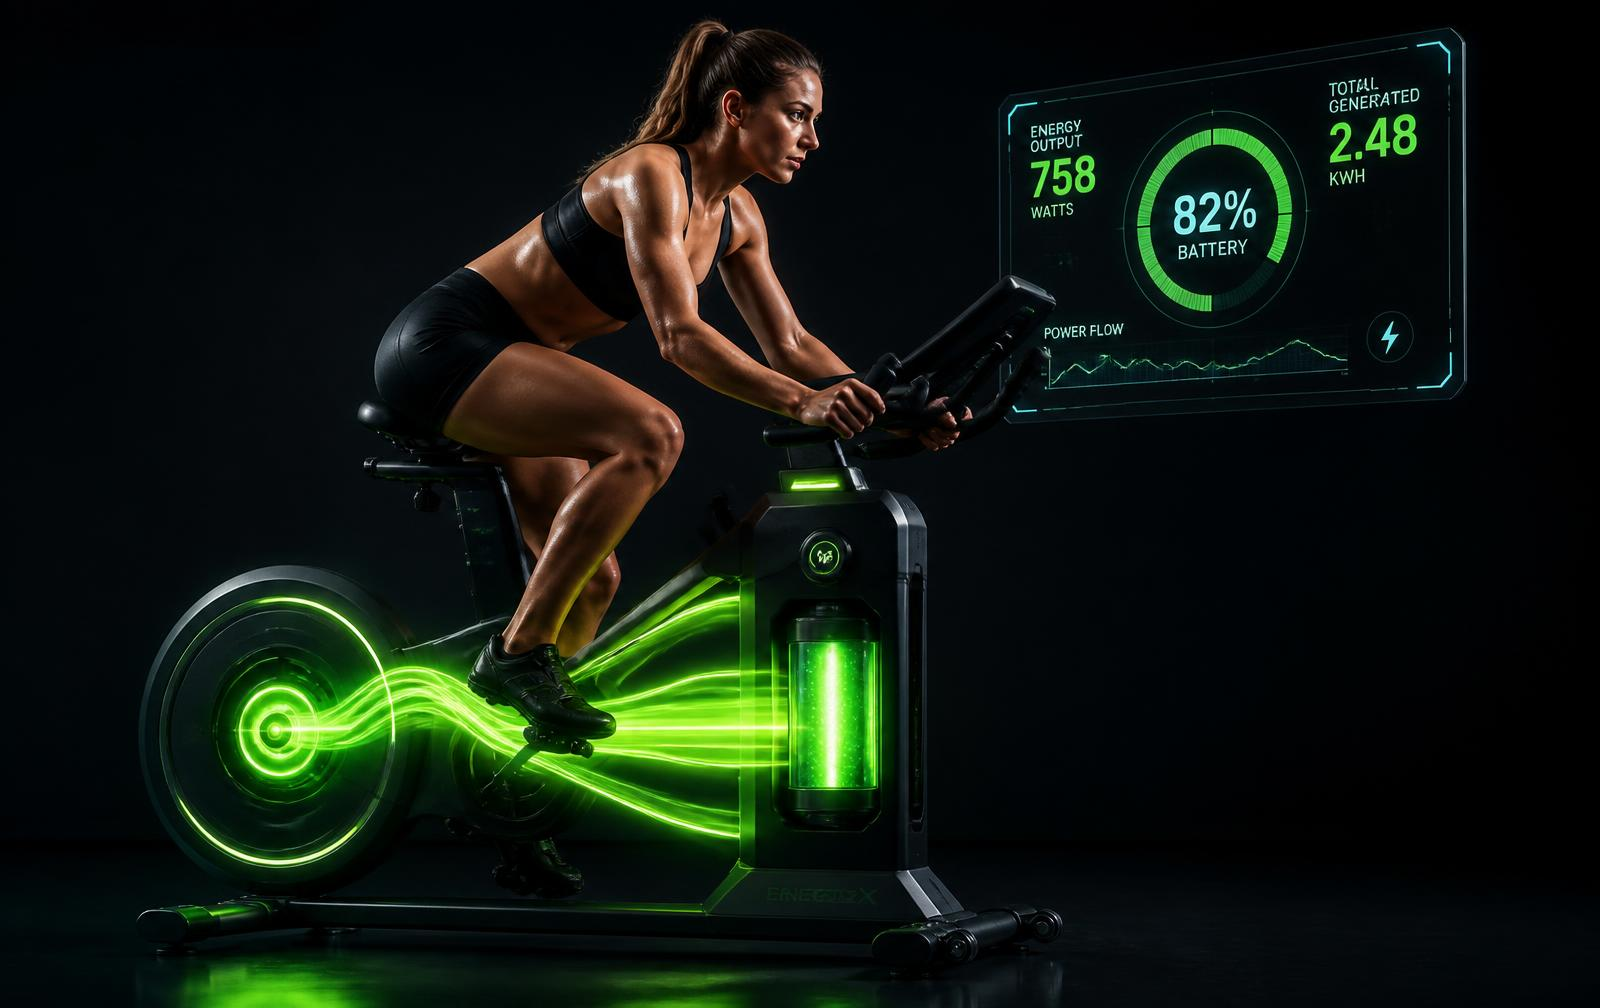
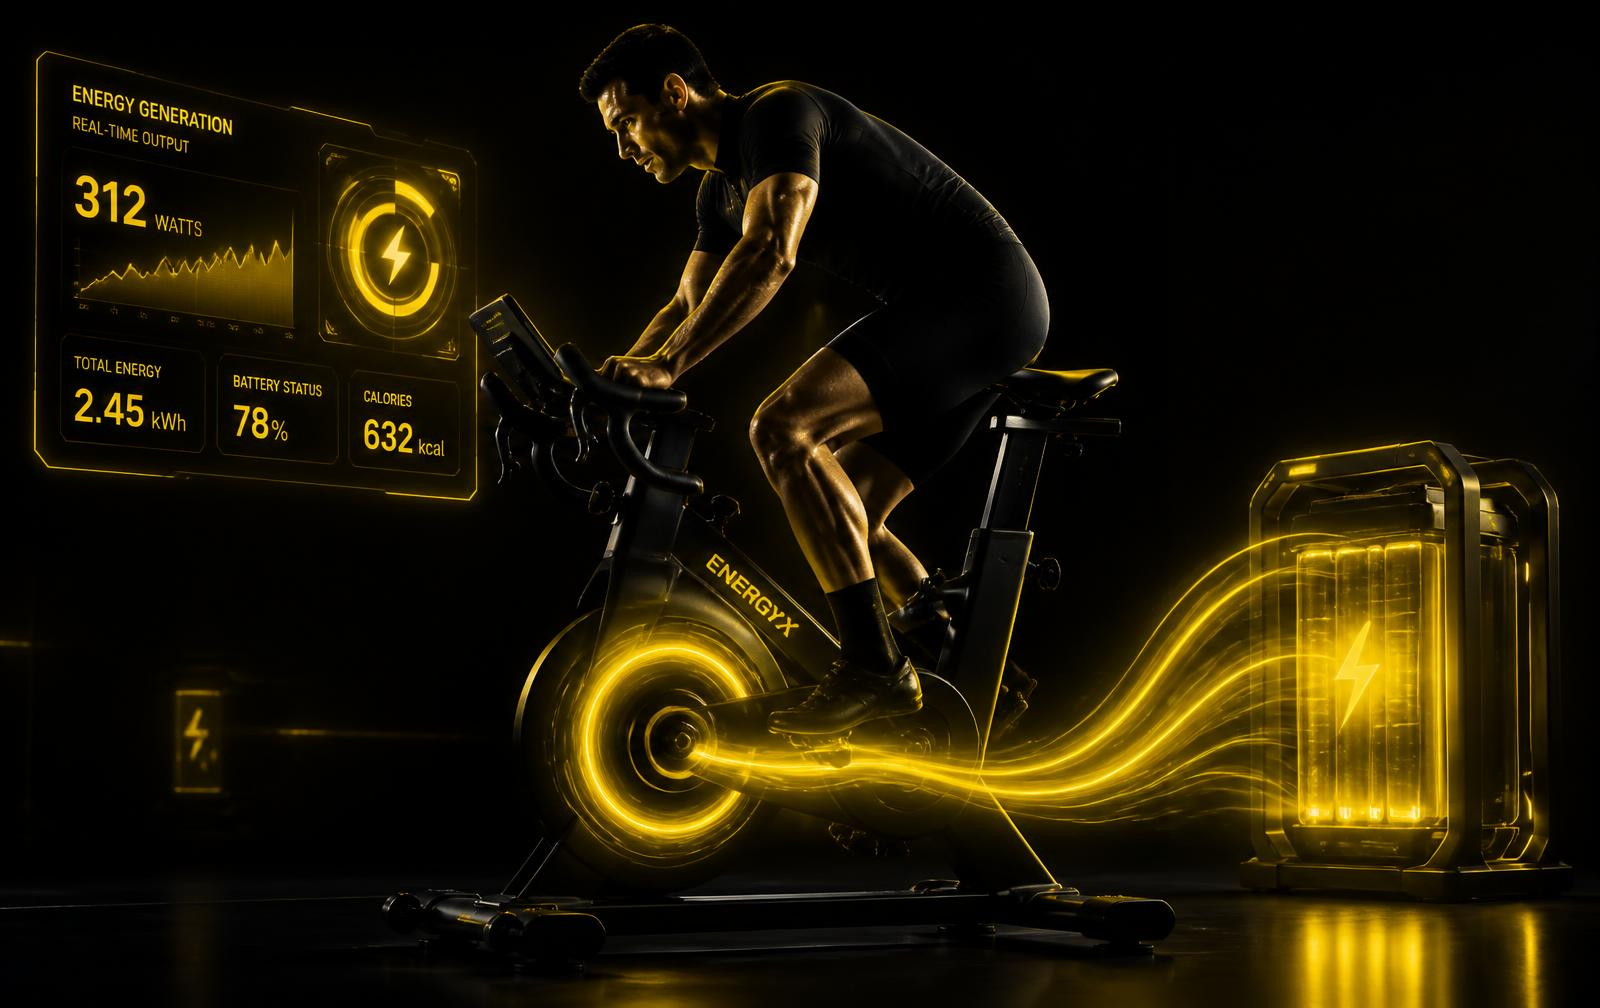
Changes

diff --git a/src/styles.css b/src/styles.css
@@ -65,37 +65,37 @@
   --card-foreground: #ffffff;
   --popover: #1a1a1a;
   --popover-foreground: #ffffff;
-  --primary: #00c853;
-  --primary-foreground: #04140a;
-  --neon: #00e676;
+  --primary: #ffd600;
+  --primary-foreground: #141000;
+  --neon: #ffea00;
   --secondary: #1a1a1a;
   --secondary-foreground: #ffffff;
   --muted: #1a1a1a;
   --muted-foreground: #b0b0b0;
-  --accent: #43a047;
+  --accent: #f9a825;
   --accent-foreground: #ffffff;
   --destructive: #ef4444;
   --destructive-foreground: #ffffff;
-  --border: rgba(0, 230, 118, 0.16);
-  --input: rgba(0, 230, 118, 0.22);
-  --ring: #00e676;
-  --chart-1: #00c853;
-  --chart-2: #00e676;
-  --chart-3: #43a047;
-  --chart-4: #7bffb0;
-  --chart-5: #0f6b35;
+  --border: rgba(255, 234, 0, 0.16);
+  --input: rgba(255, 234, 0, 0.22);
+  --ring: #ffea00;
+  --chart-1: #ffd600;
+  --chart-2: #ffea00;
+  --chart-3: #f9a825;
+  --chart-4: #ffe57f;
+  --chart-5: #a37200;
   --sidebar: #121212;
   --sidebar-foreground: #ffffff;
-  --sidebar-primary: #00c853;
-  --sidebar-primary-foreground: #04140a;
+  --sidebar-primary: #ffd600;
+  --sidebar-primary-foreground: #141000;
   --sidebar-accent: #1a1a1a;
   --sidebar-accent-foreground: #ffffff;
-  --sidebar-border: rgba(0, 230, 118, 0.16);
-  --sidebar-ring: #00e676;
-  --gradient-energy: linear-gradient(135deg, #00c853, #00e676, #43a047);
+  --sidebar-border: rgba(255, 234, 0, 0.16);
+  --sidebar-ring: #ffea00;
+  --gradient-energy: linear-gradient(135deg, #ffd600, #ffea00, #f9a825);
   --gradient-deep: linear-gradient(180deg, #0a0a0a, #121212);
-  --glow-soft: 0 0 24px rgba(0, 230, 118, 0.25);
-  --glow-strong: 0 0 48px rgba(0, 230, 118, 0.45);
+  --glow-soft: 0 0 24px rgba(255, 234, 0, 0.25);
+  --glow-strong: 0 0 48px rgba(255, 234, 0, 0.45);
 }
 
 .dark {
@@ -150,19 +150,19 @@
 @utility glass {
   background: rgba(10, 10, 10, 0.6);
   backdrop-filter: blur(18px) saturate(140%);
-  border-bottom: 1px solid rgba(0, 230, 118, 0.14);
+  border-bottom: 1px solid rgba(255, 234, 0, 0.14);
 }
 
 @utility card-glow {
   background: var(--card);
-  border: 1px solid rgba(0, 230, 118, 0.18);
+  border: 1px solid rgba(255, 234, 0, 0.18);
   transition:
     border-color 0.3s ease,
     box-shadow 0.3s ease,
     transform 0.3s ease;
 
   &:hover {
-    border-color: rgba(0, 230, 118, 0.55);
+    border-color: rgba(255, 234, 0, 0.55);
     box-shadow: var(--glow-soft);
     transform: translateY(-4px);
   }
@@ -170,8 +170,8 @@
 
 @utility grid-lines {
   background-image:
-    linear-gradient(rgba(0, 230, 118, 0.06) 1px, transparent 1px),
-    linear-gradient(90deg, rgba(0, 230, 118, 0.06) 1px, transparent 1px);
+    linear-gradient(rgba(255, 234, 0, 0.06) 1px, transparent 1px),
+    linear-gradient(90deg, rgba(255, 234, 0, 0.06) 1px, transparent 1px);
   background-size: 64px 64px;
 }
 
@@ -186,7 +186,7 @@
 
 @utility energy-line {
   height: 2px;
-  background: linear-gradient(90deg, transparent, #00e676, #00c853, transparent);
+  background: linear-gradient(90deg, transparent, #ffea00, #ffd600, transparent);
   background-size: 200% 100%;
   animation: energy-flow 3s linear infinite;
 }

diff --git a/src/routes/index.tsx b/src/routes/index.tsx
@@ -197,7 +197,7 @@ function Hero() {
           </a>
         </div>
 
-        <div className="mt-16 overflow-hidden rounded-3xl border border-primary/25 shadow-[0_0_80px_-20px_rgba(0,230,118,0.5)]">
+        <div className="mt-16 overflow-hidden rounded-3xl border border-primary/25 shadow-[0_0_80px_-20px_rgba(255,234,0,0.5)]">
           <img
             src={heroImg}
             alt="Interior de academia futurista com equipamentos conectados por trilhas de energia verde e painéis solares"
@@ -316,7 +316,7 @@ function Dashboard() {
               {barras.map((b) => (
                 <div key={b.l} className="flex flex-1 flex-col items-center gap-3">
                   <div
-                    className="bg-energy w-full rounded-t-lg shadow-[0_0_18px_rgba(0,230,118,0.4)]"
+                    className="bg-energy w-full rounded-t-lg shadow-[0_0_18px_rgba(255,234,0,0.4)]"
                     style={{ height: `${b.h}%` }}
                   />
                   <span className="text-[11px] text-muted-foreground">{b.l}</span>
